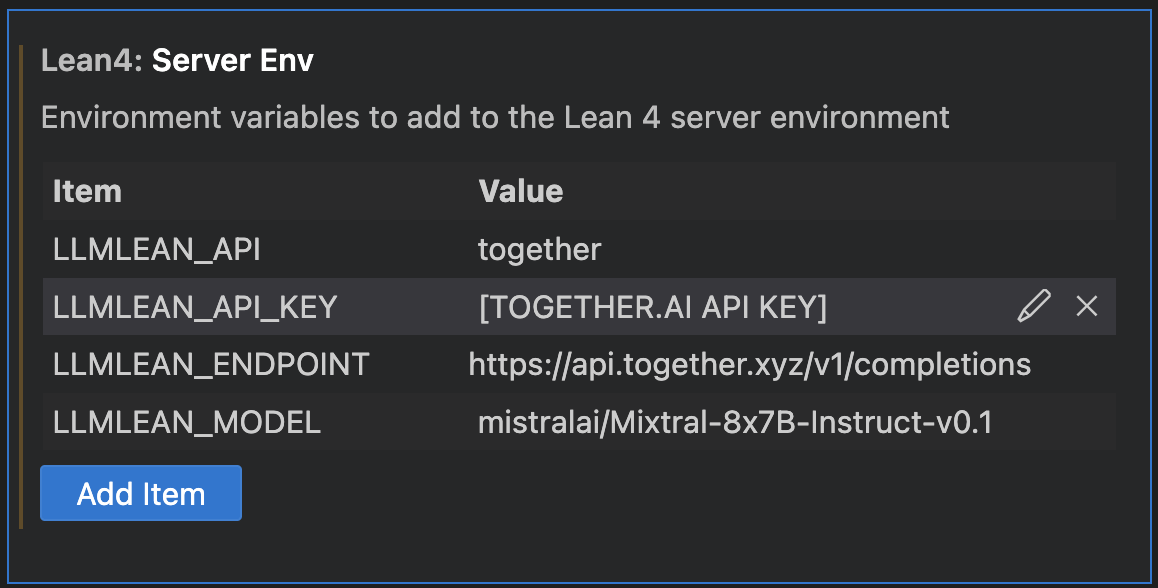
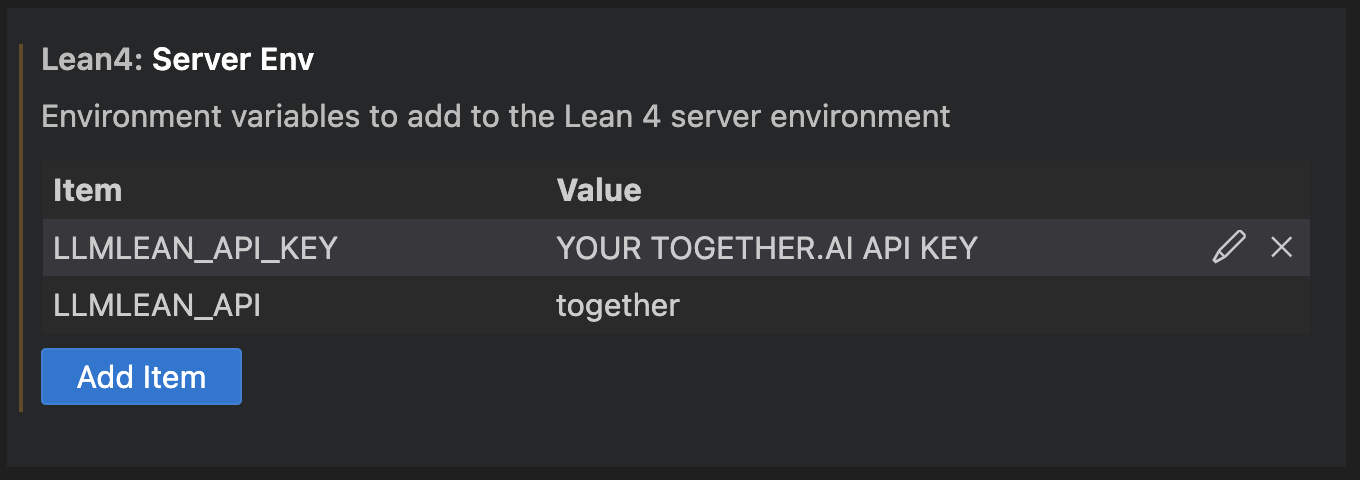
Update setup

diff --git a/docs/customization.md b/docs/customization.md
@@ -8,7 +8,7 @@ Example:
 <img src="../img/env_example.png" width=500px>
 
 - `LLMLEAN_API`:
-  - `together` : to use Together API (or your own server)
+  - `together` : to use Together API (or any similar supported API, or your own server)
 - `LLMLEAN_API_KEY`:
   - [API key](https://api.together.xyz/settings/api-keys) for Together API
 - `LLMLEAN_ENDPOINT`: API endpoint
@@ -24,12 +24,12 @@ Example:
 - `LLMLEAN_API`:
   - `ollama` : to use ollama (default)
 - `LLMLEAN_ENDPOINT`: 
-  - With ollama it is `http://localhost:11434/api/generate` (default)
+  - With ollama it is `http://localhost:11434/api/generate` 
 - `LLMLEAN_PROMPT`:
-  - `fewshot` :  for base models (default)
+  - `fewshot` :  for base models 
   - `instruction` : for instruction-tuned models
 - `LLMLEAN_MODEL`:
-  - Example: `solobsd/llemma-7b` (default) 
+  - Example: `solobsd/llemma-7b` 
 
 
 ### Setting environment variables

diff --git a/README.md b/README.md
@@ -24,7 +24,7 @@ Now use a tactic described below.
 
 1. Get a [together.ai](https://www.together.ai/) API key.
 
-2. Set environment variables in VS Code. Example:
+2. Set 2 environment variables in VS Code. Example:
 
 <img src="img/env_example1.png" style="width:500px">
 
